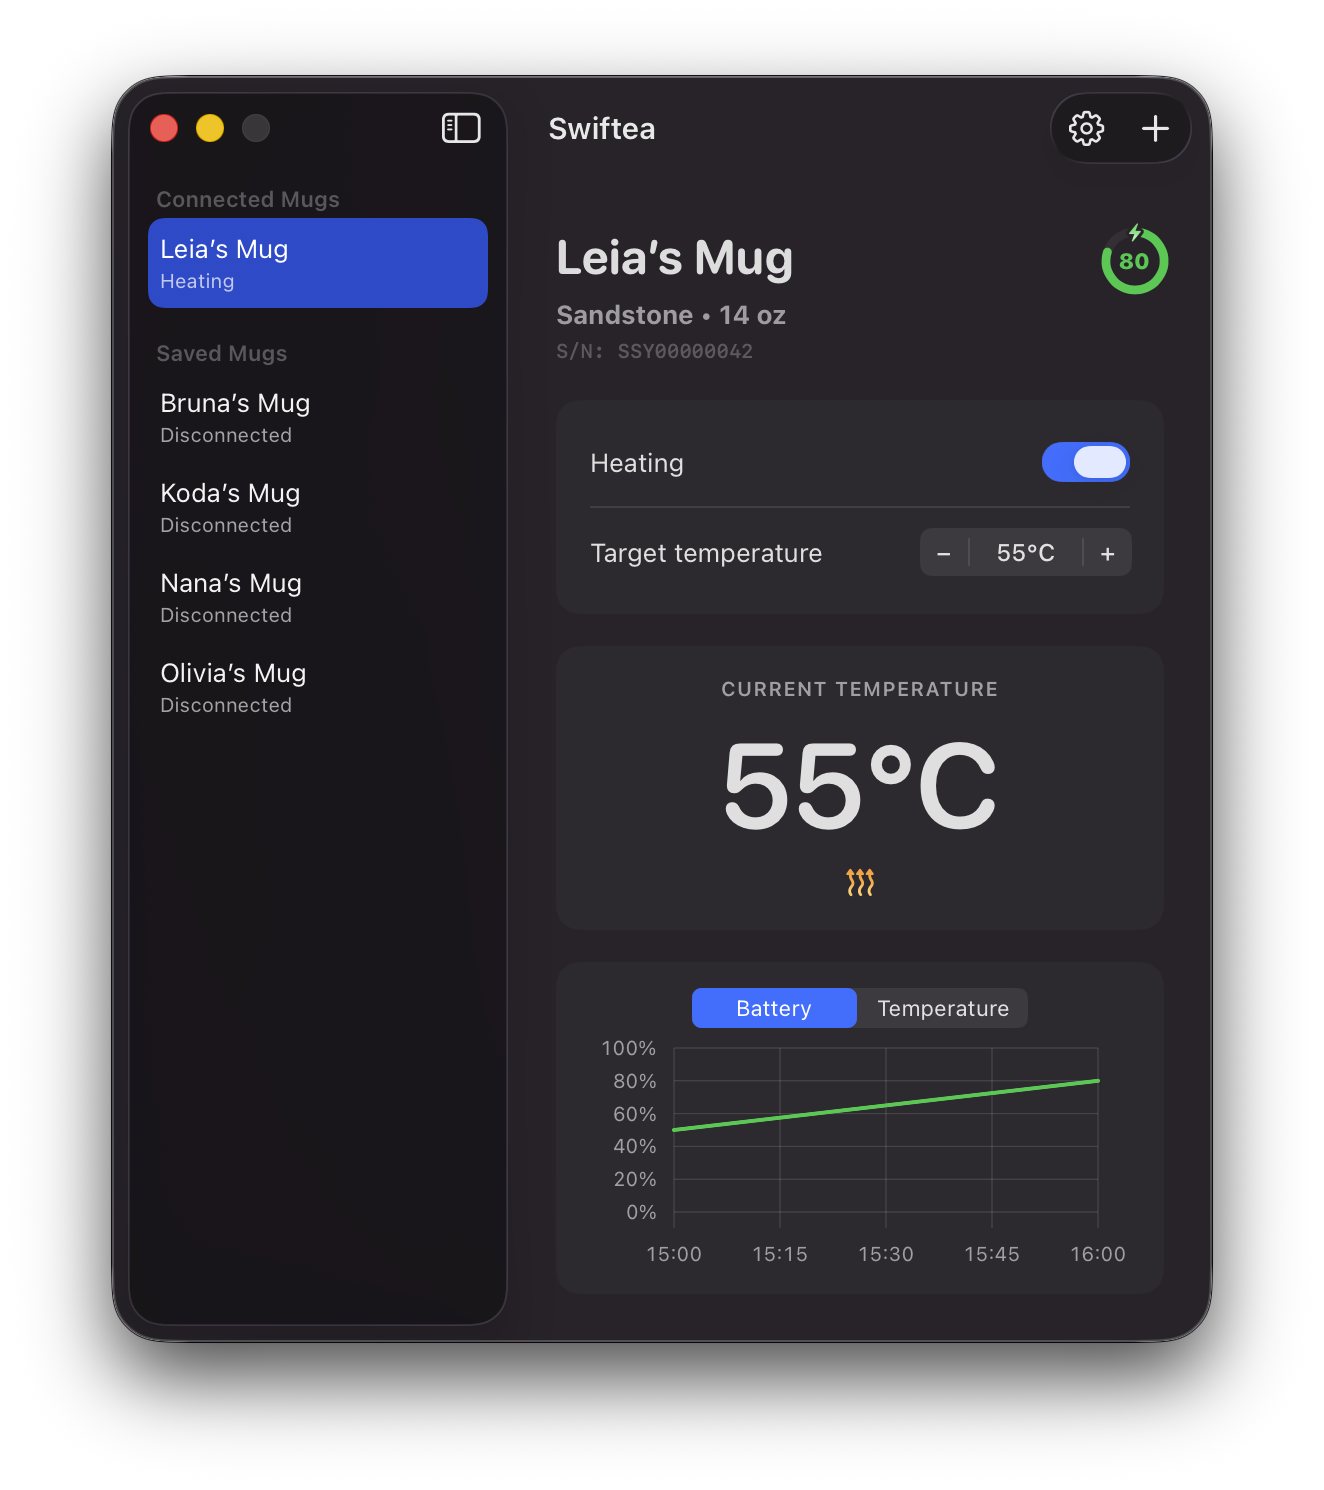
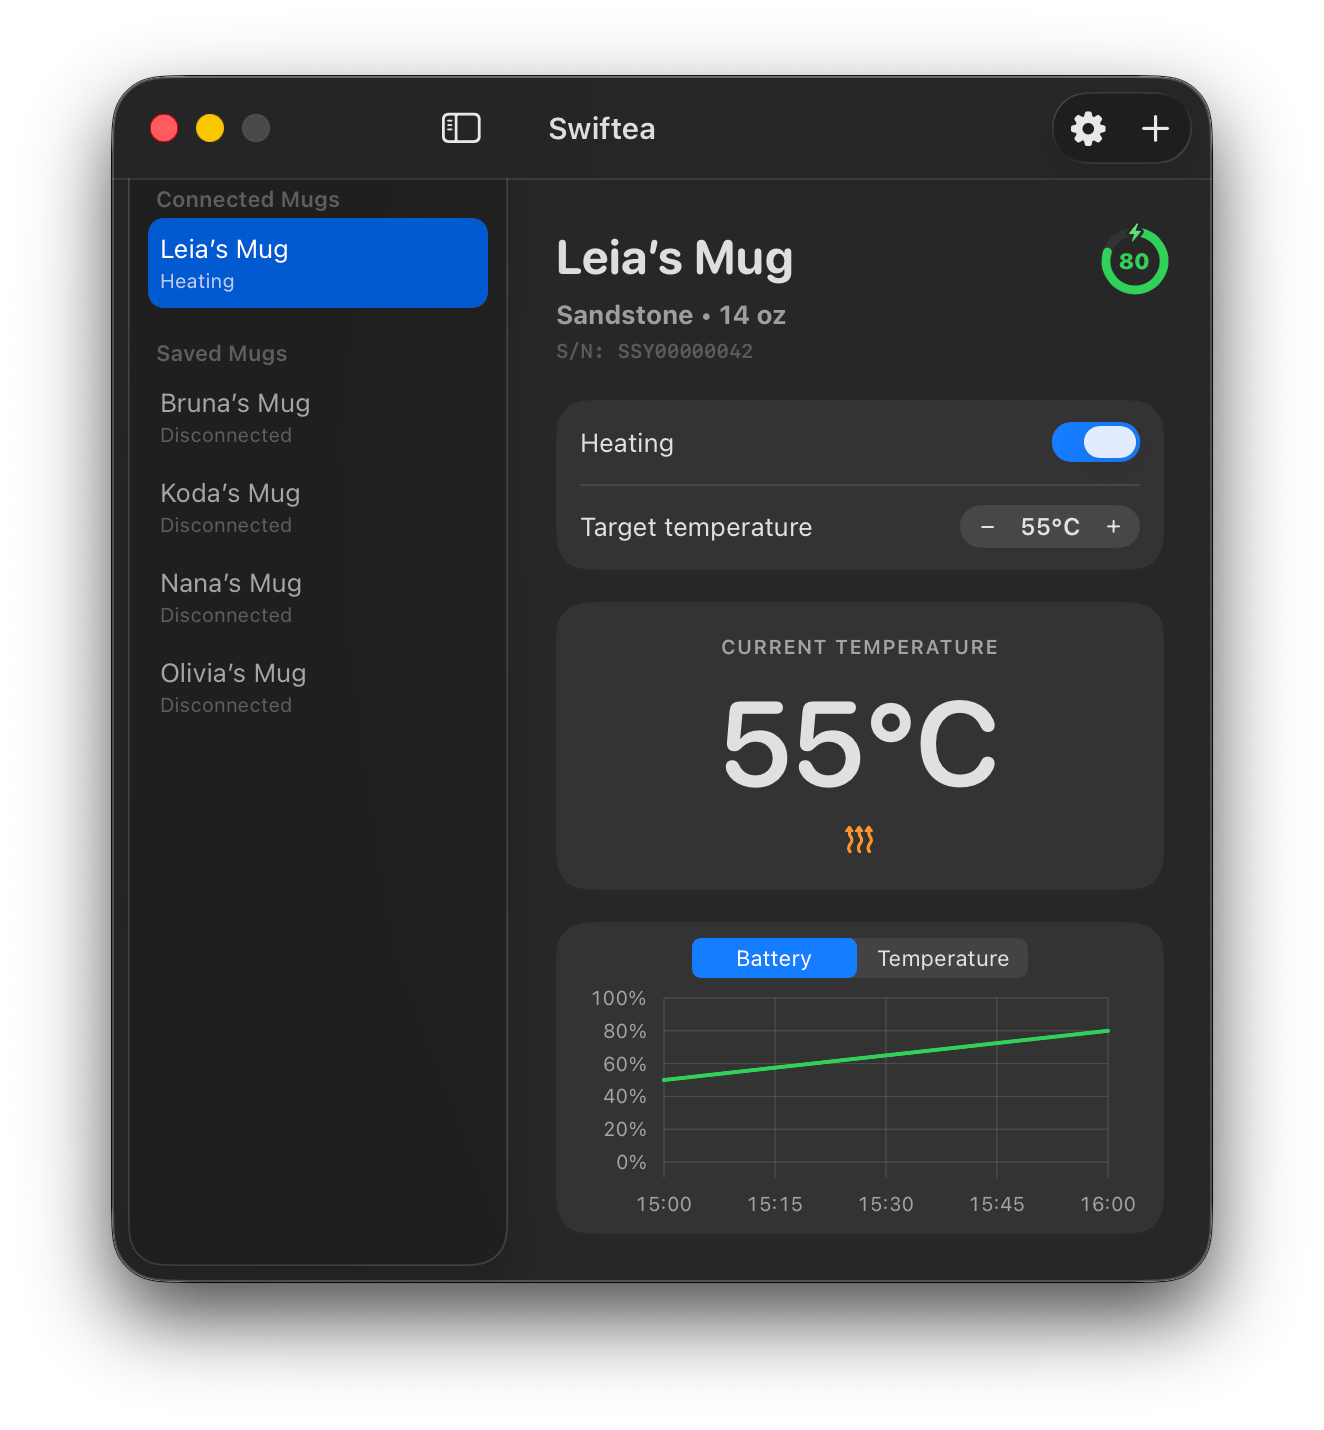
Update Swiftea website screenshots

diff --git a/index.html b/index.html
@@ -372,8 +372,8 @@
 
         <section class="preview" aria-label="Swiftea app screenshot">
           <picture class="screenshot-frame">
-            <source srcset="assets/swiftea-demo-dark.png?v=630e849f" media="(prefers-color-scheme: dark)">
-            <img src="assets/swiftea-demo-light.png?v=0726eb10" alt="Swiftea showing a connected mug, battery history, temperature controls, and saved mugs.">
+            <source srcset="assets/swiftea-demo-dark.png?v=bb2fcb3b" media="(prefers-color-scheme: dark)">
+            <img src="assets/swiftea-demo-light.png?v=b874f9df" alt="Swiftea showing a connected mug, battery history, temperature controls, and saved mugs.">
           </picture>
         </section>
       </main>
